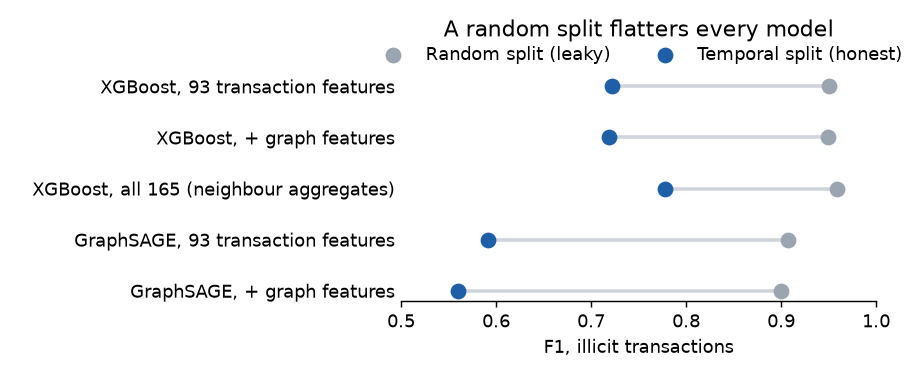
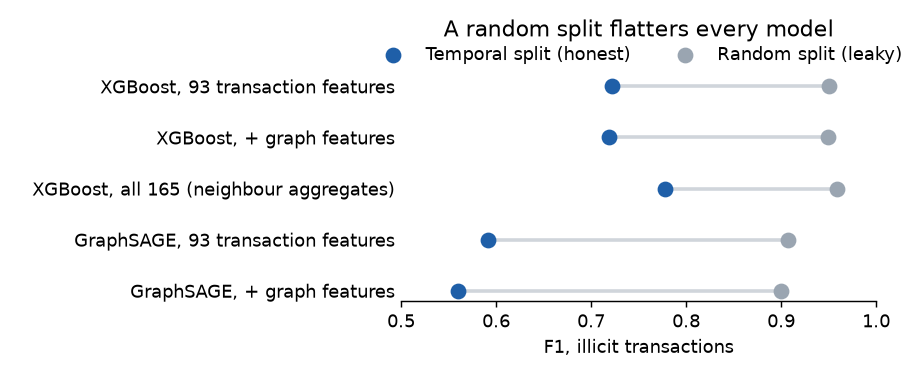
Status summary narrows the graph-features claim; legend reads left to right (#111)
project_status.md no longer says graph features help on both datasets: GFP
helps on AMLworld, the published neighbour aggregates on Elliptic. The
dumbbell legend lists temporal first, matching the dots; its docstring
cites NFR-1, not PR-E3; bullet 2 rewrapped.

Changed region(s): [[0.4, 0.1167, 0.9846, 0.1751]]

diff --git a/scripts/readme_figures.py b/scripts/readme_figures.py
@@ -78,7 +78,7 @@ def plot_alert_load(table: pd.DataFrame, paths: Paths) -> None:
 
 
 def plot_eval_gap(paths: Paths) -> None:
-    """Elliptic test F1, random vs temporal split, five-seed means without intervals (PR-E3)."""
+    """Elliptic test F1, random vs temporal split, five-seed means (NFR-1)."""
     results = pd.read_csv(paths.tables_dir() / "elliptic_mvp_results.csv")
     f1 = (
         results[results["metric"] == "test_f1"]
@@ -88,8 +88,8 @@ def plot_eval_gap(paths: Paths) -> None:
     y = np.arange(len(f1))[::-1]
     fig, ax = plt.subplots(figsize=(7, 2.9))
     ax.hlines(y, f1["temporal"], f1["random"], color="#d0d5db", lw=2, zorder=1)
-    ax.scatter(f1["random"], y, s=60, color="#9aa5b1", zorder=2, label="Random split (leaky)")
     ax.scatter(f1["temporal"], y, s=60, color="#1f5fa8", zorder=2, label="Temporal split (honest)")
+    ax.scatter(f1["random"], y, s=60, color="#9aa5b1", zorder=2, label="Random split (leaky)")
     ax.set_yticks(y, list(ELLIPTIC_ROWS.values()))
     ax.set_xlim(0.5, 1)
     ax.set_xlabel("F1, illicit transactions")

diff --git a/docs/project_status.md b/docs/project_status.md
@@ -2,7 +2,7 @@
 
 **Last updated:** 26 Nov 2026
 **Current milestone:** portfolio v1.2 (tagged)
-**Overall state:** The Elliptic++ benchmark runs end to end on the laptop (50 fits in under nine minutes on an RTX 4060), with per-timestep curves that make the ~t43 dark-market collapse visible and a calibrated label-free drift monitor that gives no warning of the collapse once a flag, like the F1 drop, must hold for two timesteps: PSI, KS and the score-shift detector never hold, and the alert-rate detector, the only one whose largest score sits at t43, does not hold either (its held flag at t38–39 is alerts rising with the illicit share, which the lead rule credits as +5 for the wrong reason). The event diagnosis (methods §12.5) explains why: after t43 the post-shutdown window is as learnable on its own as the one before it (probe ROC-AUC 0.985 vs 0.993), but the models score its illicit units as licit with confidence, and those units are too few to move a whole-batch detector. The earlier 3–4 timestep lead came from counting single flags. A rolling-refit regime (`temporal_rolling`, PR-E7, `configs/elliptic_rolling.yaml`) measures what post-shift labels buy; on Elliptic it lifts post-t43 F1 from 0.02–0.03 to 0.35–0.36 for XGBoost and to about 0.10 for SAGE, only from t47, and features make no difference (methods §12.6, run `46f9771`). AMLworld HI-Small runs as an edge task: XGBoost F1 0.21 → 0.54 with causal GFP features (8 min, 5 GB RSS). GraphSAGE's edge head, run on a Kaggle T4 (`kaggle/amlworld_sage.md`, `87f1f5a`), gets F1 0.05 → 0.14 with the same features; XGBoost beats it by 0.16 and 0.40, and every paired-by-seed interval excludes zero (methods §12.3). On the realistic test days 8–9, GFP cuts XGBoost's alerts per laundering case caught at recall 0.5 from 26.3 to 4.4; the SAGE edge head is a lower bound, since transaction features never enter its message passing (methods §11). On both datasets graph features, not a graph model, are what help. The repository is public, and the README is written for a software-engineering reader (summary, engineering, results against published numbers) with the research detail in `docs/methods.md`. The IBM Multi-GNN PNA reference row was dropped: its published configuration needs more than the laptop's 8 GB of GPU memory, and replicating it added nothing to the question. `mulegraph score` (D5) scores one day and writes a ranked alert queue and a label-free health check; with a reference of all history before the test window it stays quiet on AMLworld days 8 and 9 and flags the day-10 laundering tail, a window chosen after seeing those days.
+**Overall state:** The Elliptic++ benchmark runs end to end on the laptop (50 fits in under nine minutes on an RTX 4060), with per-timestep curves that make the ~t43 dark-market collapse visible and a calibrated label-free drift monitor that gives no warning of the collapse once a flag, like the F1 drop, must hold for two timesteps: PSI, KS and the score-shift detector never hold, and the alert-rate detector, the only one whose largest score sits at t43, does not hold either (its held flag at t38–39 is alerts rising with the illicit share, which the lead rule credits as +5 for the wrong reason). The event diagnosis (methods §12.5) explains why: after t43 the post-shutdown window is as learnable on its own as the one before it (probe ROC-AUC 0.985 vs 0.993), but the models score its illicit units as licit with confidence, and those units are too few to move a whole-batch detector. The earlier 3–4 timestep lead came from counting single flags. A rolling-refit regime (`temporal_rolling`, PR-E7, `configs/elliptic_rolling.yaml`) measures what post-shift labels buy; on Elliptic it lifts post-t43 F1 from 0.02–0.03 to 0.35–0.36 for XGBoost and to about 0.10 for SAGE, only from t47, and features make no difference (methods §12.6, run `46f9771`). AMLworld HI-Small runs as an edge task: XGBoost F1 0.21 → 0.54 with causal GFP features (8 min, 5 GB RSS). GraphSAGE's edge head, run on a Kaggle T4 (`kaggle/amlworld_sage.md`, `87f1f5a`), gets F1 0.05 → 0.14 with the same features; XGBoost beats it by 0.16 and 0.40, and every paired-by-seed interval excludes zero (methods §12.3). On the realistic test days 8–9, GFP cuts XGBoost's alerts per laundering case caught at recall 0.5 from 26.3 to 4.4; the SAGE edge head is a lower bound, since transaction features never enter its message passing (methods §11). On AMLworld the causal GFP features are what help; on Elliptic they add nothing and the published neighbour aggregates do. On neither dataset does a graph model help. The repository is public, and the README is written for a software-engineering reader (summary, engineering, results against published numbers) with the research detail in `docs/methods.md`. The IBM Multi-GNN PNA reference row was dropped: its published configuration needs more than the laptop's 8 GB of GPU memory, and replicating it added nothing to the question. `mulegraph score` (D5) scores one day and writes a ranked alert queue and a label-free health check; with a reference of all history before the test window it stays quiet on AMLworld days 8 and 9 and flags the day-10 laundering tail, a window chosen after seeing those days.
 
 ## Still open
 

diff --git a/README.md b/README.md
@@ -36,9 +36,9 @@ transactions: the largest connected group of laundering transactions with at mos
 - **How you test the model changes the answer more than which model you pick.** The score used
   here is F1, from 0 to 1, which rewards catching laundering and penalises false alarms. On the
   Bitcoin data, tested on a random shuffle, which lets the model see the future, every model scores
-  0.90–0.96.
-  Tested honestly, training on earlier weeks and scoring later ones, they score 0.56–0.78, and the
-  tree models match published results. The toolkit only reports the honest version as the headline.
+  0.90–0.96. Tested honestly, training on earlier weeks and scoring later ones, they score 0.56–0.78,
+  and the tree models match published results. The toolkit only reports the honest version as the
+  headline.
 - **When criminal behaviour changed, no label-free alarm warned in time.** After a dark market shut
   down (time step 43 of 49 in the Bitcoin data), every model's F1 fell to near zero. None of four
   drift detectors, which compare today's data with the training data without knowing which
